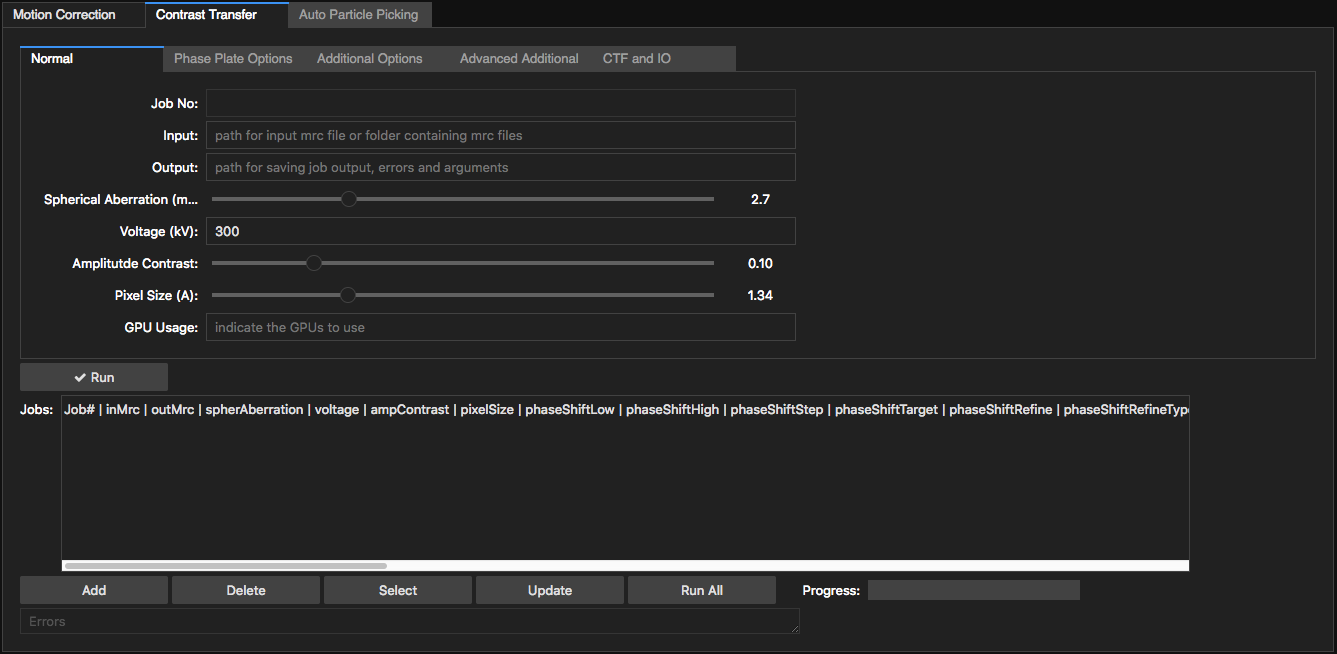
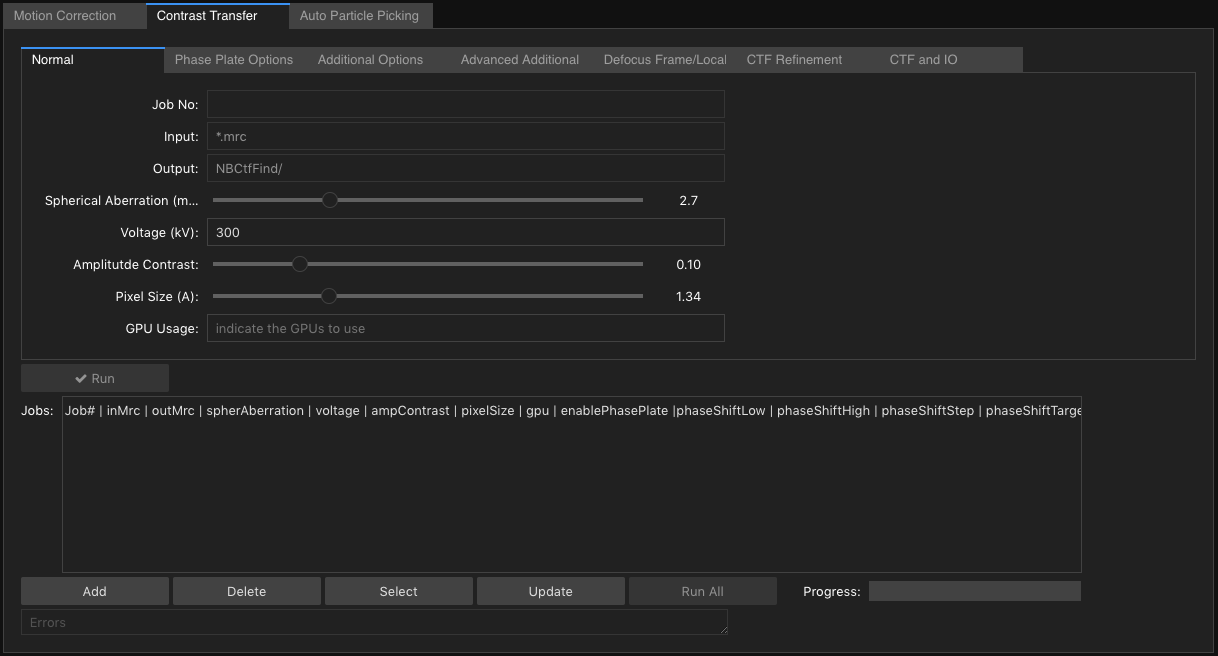
New images for CTF Review

diff --git a/UserGuide.md b/UserGuide.md
@@ -13,7 +13,15 @@ If you have not installed the tool, please refer to [Install.md](./Install.md)
 
 The tool has been constructed to run MotionCor2, Gctf and Gautomatch as single independent programs or in a 'Workflow' mode to match the 'Relion 2' (https://www2.mrc-lmb.cam.ac.uk/relion/index.php?title=Main_Page) directory structure.
 
+Please read the 'Single Process Mode' below but this tool has been defaulted to 'Workflow' mode.
+
 #### Single Process Mode
+
+To enable, click on the 'Single Process' button on the Workflow tab.
+
+![Image of Motion Correction  tab](./images/workflow-single.png)
+
+Single Process mode enables user input for the input/output fields to the three programs.
 
 There are three main tabs, representing each program:
 
@@ -23,9 +31,9 @@ There are three main tabs, representing each program:
 
   ![Image of Motion Correction  tab](./images/mc.png)
 
-2. Contrast Transfer, based on Gctf v1.18
+2. Contrast Transfer, based on Gctf v1.06
 
-  The tabs 'Normal', 'Phase Plate Options', 'Additional Options', 'Advanced Additional', and 'CTF and IO' contain all the input fields.
+  The tabs 'Normal', 'Phase Plate Options', 'Additional Options', 'Advanced Additional', 'Defocus Frame/Local', 'CTF Refinement' and 'CTF and IO' contain all the input fields.
 
   ![Image of Contrast Transfer tab](./images/ctf.png)
 
@@ -75,9 +83,9 @@ _programName_-output.txt
 
 Workflow mode has been built to allow processing using all the options for MotionCor2, Gctf and Gautomatch while maintaining compatibility with the Relion 2 directory structure.
 
-  ![Image of Stdout, Stderr and Argument fields](./images/workflow.png)
+  ![Image of Workflow mode](./images/workflow-workflow.png)
 
-Ensure you have no 'Jobs' created in 'Single' mode as they will cause the 'Workflow' process to behave unexpectedly.
+Ensure you have no 'Jobs' created in 'Single' mode as they will cause the 'Workflow' process to behave unexpectedly. e.g. file paths may be incorrect to maintain compatibility with the Relion workflow.
 
 1. To enable 'Workflow' mode, click on 'Workflow'. This will protect and default values into certain fields for each of the three programs. e.g. all Output fields are pre populated and protected.
 
@@ -89,9 +97,11 @@ Ensure you have no 'Jobs' created in 'Single' mode as they will cause the 'Workf
 
   ![Image of Input .star file](./images/inputStarFile.png)
 
+  **Note**: We are assuming you have used the Relion Import function to create the .star file.
+
 4. Create jobs for Motion Correction, Contrast Transfer Function and Auto Particle Picking.
 
-5. Click on 'Run All'. This will execute all Motion Correction jobs. It will then run all Contrast Transfer Function jobs using the output from the Motion Correction jobs as input and lastly, Auto Particle picking will run all jobs using the output from the Motion Correction jobs as input.
+5. Click on 'Run all jobs'. This will execute all Motion Correction jobs. It will then run all Contrast Transfer Function jobs using the output from the Motion Correction jobs as input and lastly, Auto Particle picking will run all jobs using the output from the Motion Correction jobs as input.
 
 6. All workflow jobs can be loaded and saved to disk by clicking on the 'Load Jobs' and 'Save Jobs' buttons. The file 'workflowJobs.data' will be created in the Project Directory. This feature allows you to develop a set of jobs, known to produce quality output to reuse on future datasets.
 
@@ -119,38 +129,41 @@ The directories: mc1, mc2, ctf1, ctf2, pick1 and pick2 are the jobs created.
 'NBMotionCorr/mc1/Micrographs/' and 'NBMotionCorr/mc2/Micrographs/' contain the output files from motioncor2.
 
 ```
-Falcon_2012_06_12-14_33_35_0_DW.mrc
-Falcon_2012_06_12-14_33_35_0.mrc
+MotionCor2 output files:
+  Falcon_2012_06_12-14_33_35_0_DW.mrc
+  Falcon_2012_06_12-14_33_35_0.mrc
 ```
 
-'NBCtfFind/ctf1/Micrographs/' and 'NBCtfFind/ctf2/Micrographs/' contain symlinks to all output files from motioncor2 for jobs mc1 and mc2, plus the output from gctf for the jobs 'ctf1' and 'ctf2'. __Note: Only none dose weighted output files from motioncor2 are used as input.__
+'NBCtfFind/ctf1/Micrographs/' and 'NBCtfFind/ctf2/Micrographs/' contain symlinks to all output files from motioncor2 for jobs mc1 and mc2, plus the output from gctf for the jobs 'ctf1' and 'ctf2'. __Note: Only none dose weighted output files from motioncor2 are used as input to gctf.__
 
 ```
-mc1-Falcon_2012_06_12-14_33_35_0.ctf
-mc1-Falcon_2012_06_12-14_33_35_0_gctf.log
-mc1-Falcon_2012_06_12-14_33_35_0.mrc
-mc1-Falcon_2012_06_12-14_33_35_0.pow
-mc2-Falcon_2012_06_12-14_33_35_0.ctf
-mc2-Falcon_2012_06_12-14_33_35_0_gctf.log
-mc2-Falcon_2012_06_12-14_33_35_0.mrc
-mc2-Falcon_2012_06_12-14_33_35_0.pow
+Gctf output files:
+  mc1-Falcon_2012_06_12-14_33_35_0.ctf
+  mc1-Falcon_2012_06_12-14_33_35_0_EPA.log
+  mc1-Falcon_2012_06_12-14_33_35_0_gctf.log
+  mc1-Falcon_2012_06_12-14_33_35_0.mrc
+  mc2-Falcon_2012_06_12-14_33_35_0.ctf
+  mc2-Falcon_2012_06_12-14_33_35_0_EPA.log
+  mc2-Falcon_2012_06_12-14_33_35_0_gctf.log
+  mc2-Falcon_2012_06_12-14_33_35_0.mrc
 ```
 
 'NBAutoPick/pick1/Micrographs/' and 'NBAutoPick/pick2/Micrographs/' contain symlinks to all output files from motioncor2 for jobs mc1 and mc2, plus the output from gautomatch for the jobs 'pick1' and 'pick2'. __Note: Only none dose weighted output files from motioncor2 are used as input.__
 
 ```
-mc1-Falcon_2012_06_12-14_33_35_0_automatch.box
-mc1-Falcon_2012_06_12-14_33_35_0_automatch.star
-mc1-Falcon_2012_06_12-14_33_35_0.mrc
-mc1-Falcon_2012_06_12-14_33_35_0_nonunique.box
-mc1-Falcon_2012_06_12-14_33_35_0_rejected.box
-mc1-Falcon_2012_06_12-14_33_35_0_rejected.star
-mc2-Falcon_2012_06_12-14_33_35_0_automatch.box
-mc2-Falcon_2012_06_12-14_33_35_0_automatch.star
-mc2-Falcon_2012_06_12-14_33_35_0.mrc
-mc2-Falcon_2012_06_12-14_33_35_0_nonunique.box
-mc2-Falcon_2012_06_12-14_33_35_0_rejected.box
-mc2-Falcon_2012_06_12-14_33_35_0_rejected.star
+Gautomatch output files:
+  mc1-Falcon_2012_06_12-14_33_35_0_automatch.box
+  mc1-Falcon_2012_06_12-14_33_35_0_automatch.star
+  mc1-Falcon_2012_06_12-14_33_35_0.mrc
+  mc1-Falcon_2012_06_12-14_33_35_0_nonunique.box
+  mc1-Falcon_2012_06_12-14_33_35_0_rejected.box
+  mc1-Falcon_2012_06_12-14_33_35_0_rejected.star
+  mc2-Falcon_2012_06_12-14_33_35_0_automatch.box
+  mc2-Falcon_2012_06_12-14_33_35_0_automatch.star
+  mc2-Falcon_2012_06_12-14_33_35_0.mrc
+  mc2-Falcon_2012_06_12-14_33_35_0_nonunique.box
+  mc2-Falcon_2012_06_12-14_33_35_0_rejected.box
+  mc2-Falcon_2012_06_12-14_33_35_0_rejected.star
 ```
 
 __Important__ Note how the files for Contrast Transfer Function (ctf) and Auto Particle Picking (gautomatch) are prefixed with 'mc1' and 'mc2'. This represents the job output from Motion Correction. Each job for gctf and gautomatch is run against all job output from motion correction.
@@ -172,7 +185,7 @@ class workFlow:
     gautomatchFolderName = 'NBAutoPick/'
 ```
 
-motionCorrection.py, gctf.py and gautomatch.py each contain the job prefix. Just edit as shown here.
+motionCorrection.py, gctf-106.py and gautomatch.py each contain the job prefix. Just edit as shown here.
 
 ```
 #Motion Correction input fields and functions to execute jobs
@@ -182,3 +195,42 @@ class motionCorrection:
     program = 'motioncor2'
     jobPrefix = 'mc'
 ```
+
+### CTF Review
+
+CTF Review allows you to display, review, filter and save the filtered micrographs as a .star file ready for continued analysis inside Relion.
+
+![Image of CTF Review](./images/reviewStart.png)
+
+Click on 'Start Review'. This requires the 'Project Directory' to be completed in the 'Workflow' tab. The program then determines the existing CTF jobs.
+
+![Image of CTF Review Jobs](./images/reviewJobs.png)
+
+A list of available jobs is displayed, the total number of micrographs for each job, fields for filtering results, ordering the results and the total number of filtered micrographs.
+
+Alter the filter fields and order as required, click 'Apply'.
+This will recalculate the total number of CTF micrographs to be displayed.
+You may wish to complete this step where there are thousands of micrographs. Displaying all of them may require you to wait as they are all loaded, then displayed.
+
+![Image of CTF Review filters](./images/reviewFiltered.png)
+
+Click 'Review' to display the CTF micrographs.
+
+![Image of CTF Review micrographs](./images/reviewCtfs.png)
+
+For each CTF micrograph, the data can be viewed by clicking on the 'Data' button.
+
+![Image of CTF Data](./images/reviewData.png)
+
+OR view the input to CTF by clicking on the 'Raw mrc' button.
+
+![Image of CTF Review - input micrograph](./images/reviewRaw.png)
+
+#### Saving
+
+To refilter, just alter the 'from' and 'to' values, click 'Apply', then 'Review'.
+
+Repeat this step until the desired results are displayed.
+When ready, clicking 'Save' will create a 'selected_micrographs_ctf.star' file inside the 'job' folder.
+
+e.g. relionProjectDirectoryPath/NBCtfFind/ctf1/selected_micrographs_ctf.star

diff --git a/Install.md b/Install.md
@@ -36,7 +36,7 @@ If you have previously installed, please see 'Running' below.
 
   ```
   module load motioncor2/2.1
-  module load gctf/1.18_cuda8
+  module load gctf/1.06_cuda8
   module load gautomatch/0.56
   ```
 
@@ -77,7 +77,7 @@ Ensure your Massive Desktop is running.
 
   ```
   module load motioncor2/2.1
-  module load gctf/1.18_cuda8
+  module load gctf/1.06_cuda8
   module load gautomatch/0.56
   ```
 
